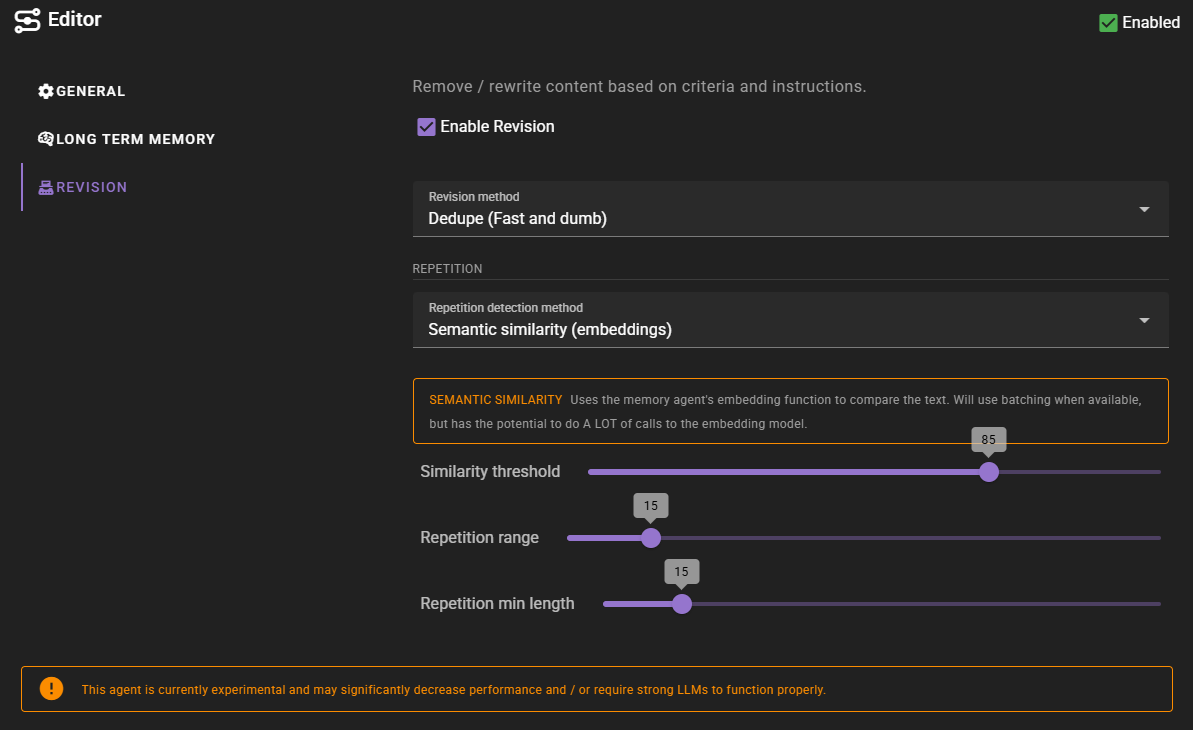
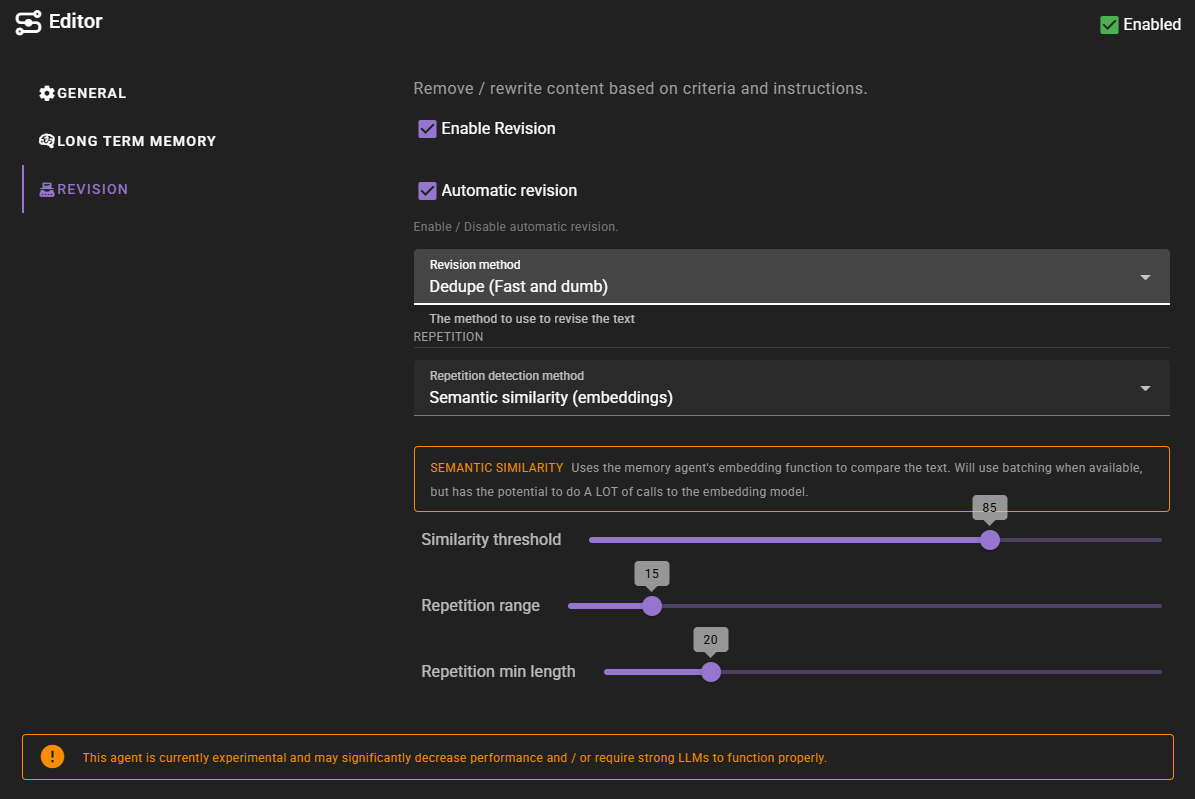
editor revision: automatic revision setting, prompt tweaks, docs

diff --git a/talemate_frontend/src/components/SceneMessages.vue b/talemate_frontend/src/components/SceneMessages.vue
@@ -10,7 +10,7 @@
             <div v-if="message.type === 'character' || message.type === 'processing_input'"
                 :class="`message ${message.type}`" :id="`message-${message.id}`" :style="{ borderColor: message.color }">
                 <div class="character-message">
-                    <CharacterMessage :character="message.character" :text="message.text" :color="message.color" :message_id="message.id" :uxLocked="uxLocked" :isLastMessage="index === messages.length - 1" />
+                    <CharacterMessage :character="message.character" :text="message.text" :color="message.color" :message_id="message.id" :uxLocked="uxLocked" :isLastMessage="index === messages.length - 1" :editorRevisionsEnabled="editorRevisionsEnabled" />
                 </div>
             </div>
             <div v-else-if="message.type === 'request_input' && message.choices">
@@ -43,7 +43,7 @@
             </div>
             <div v-else-if="message.type === 'narrator'" :class="`message ${message.type}`">
                 <div class="narrator-message"  :id="`message-${message.id}`">
-                    <NarratorMessage :text="message.text" :message_id="message.id" :uxLocked="uxLocked" :isLastMessage="index === messages.length - 1" />
+                    <NarratorMessage :text="message.text" :message_id="message.id" :uxLocked="uxLocked" :isLastMessage="index === messages.length - 1" :editorRevisionsEnabled="editorRevisionsEnabled" />
                 </div>
             </div>
             <div v-else-if="message.type === 'director' && !getMessageTypeHidden(message.type)" :class="`message ${message.type}`">
@@ -99,6 +99,9 @@ export default {
             type: Boolean,
             default: false,
         },
+        agentStatus: {
+            type: Object,
+        }
     },
     components: {
         CharacterMessage,
@@ -122,6 +125,11 @@ export default {
             },
         }
     },
+    computed: {
+        editorRevisionsEnabled() {
+            return this.agentStatus && this.agentStatus.editor && this.agentStatus.editor.actions && this.agentStatus.editor.actions["revision"] && this.agentStatus.editor.actions["revision"].enabled;
+        }
+    },
     inject: ['getWebsocket', 'registerMessageHandler', 'setWaitingForInput'],
     provide() {
         return {
@@ -131,6 +139,7 @@ export default {
             forkSceneInitiate: this.forkSceneInitiate,
             getMessageColor: this.getMessageColor,
             getMessageStyle: this.getMessageStyle,
+            reviseMessage: this.reviseMessage,
         }
     },
     methods: {
@@ -264,6 +273,14 @@ export default {
                 action: 'fork_new_scene',
                 message_id: message_id,
                 save_name: save_name,
+            }));
+        },
+
+        reviseMessage(message_id) {
+            this.getWebsocket().send(JSON.stringify({
+                type: 'editor',
+                action: 'request_revision',
+                message_id: message_id,
             }));
         },
 

diff --git a/talemate_frontend/src/components/CharacterMessage.vue b/talemate_frontend/src/components/CharacterMessage.vue
@@ -59,6 +59,12 @@
           Create Pin
         </v-chip>
 
+        <!-- revision -->
+        <v-chip size="x-small" class="ml-2" label color="dirty" v-if="!editing && hovered && editorRevisionsEnabled && isLastMessage" variant="outlined" @click="reviseMessage(message_id)" :disabled="uxLocked">
+          <v-icon class="mr-1">mdi-typewriter</v-icon>
+          Editor Revision
+        </v-chip>
+
         <!-- fork scene -->
         <v-chip size="x-small" class="ml-2" label color="primary" v-if="!editing && hovered" variant="outlined" @click="forkSceneInitiate(message_id)" :disabled="uxLocked">
           <v-icon class="mr-1">mdi-source-fork</v-icon>
@@ -76,8 +82,48 @@
 import { parseText } from '@/utils/textParser';
 
 export default {
-  props: ['character', 'text', 'color', 'message_id', 'uxLocked', 'isLastMessage'],
-  inject: ['requestDeleteMessage', 'getWebsocket', 'createPin', 'forkSceneInitiate', 'fixMessageContinuityErrors', 'autocompleteRequest', 'autocompleteInfoMessage', 'getMessageStyle'],
+  //props: ['character', 'text', 'color', 'message_id', 'uxLocked', 'isLastMessage'],
+  props: {
+    character: {
+      type: String,
+      required: true,
+    },
+    text: {
+      type: String,
+      required: true,
+    },
+    color: {
+      type: String,
+      required: true,
+    },
+    message_id: {
+      type: Number,
+      required: true,
+    },
+    uxLocked: {
+      type: Boolean,
+      required: true,
+    },
+    isLastMessage: {
+      type: Boolean,
+      required: true,
+    },
+    editorRevisionsEnabled: {
+      type: Boolean,
+      default: false,
+    },
+  },
+  inject: [
+    'requestDeleteMessage',
+    'getWebsocket', 
+    'createPin', 
+    'forkSceneInitiate', 
+    'fixMessageContinuityErrors', 
+    'autocompleteRequest', 
+    'autocompleteInfoMessage', 
+    'getMessageStyle', 
+    'reviseMessage',
+  ],
   computed: {
     parts() {
       return parseText(this.text);

diff --git a/talemate_frontend/src/components/NarratorMessage.vue b/talemate_frontend/src/components/NarratorMessage.vue
@@ -44,6 +44,12 @@
           Create Pin
         </v-chip>
 
+        <!-- revision -->
+        <v-chip size="x-small" class="ml-2" label color="dirty" v-if="!editing && hovered && editorRevisionsEnabled && isLastMessage" variant="outlined" @click="reviseMessage(message_id)" :disabled="uxLocked">
+          <v-icon class="mr-1">mdi-typewriter</v-icon>
+          Editor Revision
+        </v-chip>
+
         <!-- fork scene -->
         <v-chip size="x-small" class="ml-2" label color="primary" v-if="!editing && hovered" variant="outlined"
           @click="forkSceneInitiate(message_id)" :disabled="uxLocked">
@@ -65,8 +71,41 @@
 import { parseText } from '@/utils/textParser';
 
 export default {
-  props: ['text', 'message_id', 'uxLocked', 'isLastMessage'],
-  inject: ['requestDeleteMessage', 'getWebsocket', 'createPin', 'forkSceneInitiate', 'fixMessageContinuityErrors', 'autocompleteRequest', 'autocompleteInfoMessage', 'getMessageStyle', 'openWorldStateManager'],
+  // props: ['text', 'message_id', 'uxLocked', 'isLastMessage'],
+
+  props: {
+    text: {
+      type: String,
+      required: true
+    },
+    message_id: {
+      required: true
+    },
+    uxLocked: {
+      type: Boolean,
+      required: true
+    },
+    isLastMessage: {
+      type: Boolean,
+      required: true
+    },
+    editorRevisionsEnabled: {
+      type: Boolean,
+      default: false,
+    },
+  },
+  inject: [
+    'requestDeleteMessage', 
+    'getWebsocket', 
+    'createPin', 
+    'forkSceneInitiate', 
+    'fixMessageContinuityErrors', 
+    'autocompleteRequest', 
+    'autocompleteInfoMessage', 
+    'getMessageStyle', 
+    'openWorldStateManager',
+    'reviseMessage',
+  ],
   computed: {
     parts() {
       return parseText(this.text);

diff --git a/talemate_frontend/src/components/TalemateApp.vue b/talemate_frontend/src/components/TalemateApp.vue
@@ -186,7 +186,12 @@
                       </v-alert>
                     </div>
 
-                    <SceneMessages ref="sceneMessages" :appearance-config="appConfig ? appConfig.appearance : {}" :ux-locked="uxLocked" />
+                    <SceneMessages 
+                    ref="sceneMessages" 
+                    :appearance-config="appConfig ? appConfig.appearance : {}" 
+                    :ux-locked="uxLocked" 
+                    :agent-status="agentStatus"
+                    />
 
                     <div ref="sceneToolsContainer">
                       <SceneTools 
@@ -801,6 +806,7 @@ export default {
         // active - has the agent been active in the last 5 seconds?
         recentlyActive: recentlyActive,
         details: data.client,
+        actions: data.data.actions,
       }
 
       if(recentlyActive && !busy) {

diff --git a/src/talemate/agents/editor/revision.py b/src/talemate/agents/editor/revision.py
@@ -1,6 +1,7 @@
 from typing import TYPE_CHECKING
 import structlog
 import uuid
+import pydantic
 import re
 from talemate.agents.base import (
     set_processing,
@@ -52,15 +53,29 @@ detect_bad_prose_condition = AgentActionConditional(
     value=True,
 )
 
+class RevisionContextState(pydantic.BaseModel):
+    message_id: int | None = None
+
 revision_disabled_context = ContextVar("revision_disabled", default=False)
+revision_context = ContextVar("revision_context", default=RevisionContextState())
+
 
 class RevisionDisabled:
-    
     def __enter__(self):
         self.token = revision_disabled_context.set(True)
 
     def __exit__(self, exc_type, exc_value, traceback):
         revision_disabled_context.reset(self.token)
+
+class RevisionContext:
+    def __init__(self, message_id: int | None = None):
+        self.message_id = message_id
+
+    def __enter__(self):
+        self.token = revision_context.set(RevisionContextState(message_id=self.message_id))
+
+    def __exit__(self, exc_type, exc_value, traceback):
+        revision_context.reset(self.token)
 
 class RevisionMixin:
     
@@ -79,6 +94,13 @@ class RevisionMixin:
             icon="mdi-typewriter",
             description="Remove / rewrite content based on criteria and instructions.",
             config={
+                "automatic_revision": AgentActionConfig(
+                    type="bool",
+                    label="Automatic revision",
+                    description="Enable / Disable automatic revision.",
+                    value=True,
+                    quick_toggle=True,
+                ),
                 "revision_method": AgentActionConfig(
                     type="text",
                     label="Revision method",
@@ -181,6 +203,10 @@ class RevisionMixin:
         return self.actions["revision"].enabled
     
     @property
+    def revision_automatic_enabled(self):
+        return self.actions["revision"].config["automatic_revision"].value
+    
+    @property
     def revision_method(self):
         return self.actions["revision"].config["revision_method"].value
     
@@ -234,7 +260,7 @@ class RevisionMixin:
         Called when a conversation or narrator message is generated
         """
         
-        if not self.revision_enabled:
+        if not self.revision_enabled or not self.revision_automatic_enabled:
             return
         
         try:
@@ -262,9 +288,12 @@ class RevisionMixin:
         
         scene:"Scene" = self.scene
         
+        ctx = revision_context.get()
+        
         messages = scene.collect_messages(
             typ=["narrator", "character"],
-            max_messages=self.revision_repetition_range
+            max_messages=self.revision_repetition_range,
+            start_idx=scene.message_index(ctx.message_id) -1 if ctx.message_id else None
         )
         
         return_messages = []
@@ -600,7 +629,7 @@ class RevisionMixin:
         if detect_bad_prose:
             bad_prose_identified = await self.revision_detect_bad_prose(text)
             for identified in bad_prose_identified:
-                issues.append(f"Bad prose: `{identified['phrase']}` (reason: {identified['reason']}, instructions: {identified['instructions']})")
+                issues.append(f"Bad prose: `{identified['phrase']}` (reason: {identified['reason']}, matched: {identified['matched']}, instructions: {identified['instructions']})")
             log.debug("revision_rewrite: bad_prose_identified", bad_prose_identified=bad_prose_identified)
             
         # Step 3 - Check if we have enough issues to warrant a rewrite

diff --git a/src/talemate/tale_mate.py b/src/talemate/tale_mate.py
@@ -1124,6 +1124,7 @@ class Scene(Emitter):
         max_iterations: int = 100,
         max_messages: int | None = None,
         stop_on_time_passage: bool = False,
+        start_idx: int | None = None,
     ):
         """
         Finds all messages in the history that match the given typ and source
@@ -1135,7 +1136,11 @@ class Scene(Emitter):
         messages = []
         iterations = 0
         collected = 0
-        for idx in range(len(self.history) - 1, -1, -1):
+        
+        if start_idx is None:
+            start_idx = len(self.history) - 1
+        
+        for idx in range(start_idx, -1, -1):
             message = self.history[idx]
             if (not typ or message.typ in typ) and (
                 not source or message.source == source

diff --git a/src/talemate/agents/editor/__init__.py b/src/talemate/agents/editor/__init__.py
@@ -15,6 +15,7 @@ import talemate.agents.editor.nodes
 
 from talemate.agents.memory.rag import MemoryRAGMixin
 from talemate.agents.editor.revision import RevisionMixin
+from talemate.agents.editor.websocket_handler import EditorWebsocketHandler
 
 if TYPE_CHECKING:
     from talemate.agents.conversation import ConversationAgentEmission
@@ -38,6 +39,7 @@ class EditorAgent(
 
     agent_type = "editor"
     verbose_name = "Editor"
+    websocket_handler = EditorWebsocketHandler
     
     @classmethod
     def init_actions(cls) -> dict[str, AgentAction]:

diff --git a/docs/user-guide/agents/editor/settings.md b/docs/user-guide/agents/editor/settings.md
@@ -49,6 +49,10 @@ This means it comes at a noticable delay IF it finds issues, but the improvement
 
 Check this to enable revision.
 
+##### Automatic Revision
+
+Check this to enable automatic revision - this will analyze each incoming actor or narrator message and attempt to fix it if there are issues.
+
 ##### Revision Method
 
 Which method to use to fix issues. 
